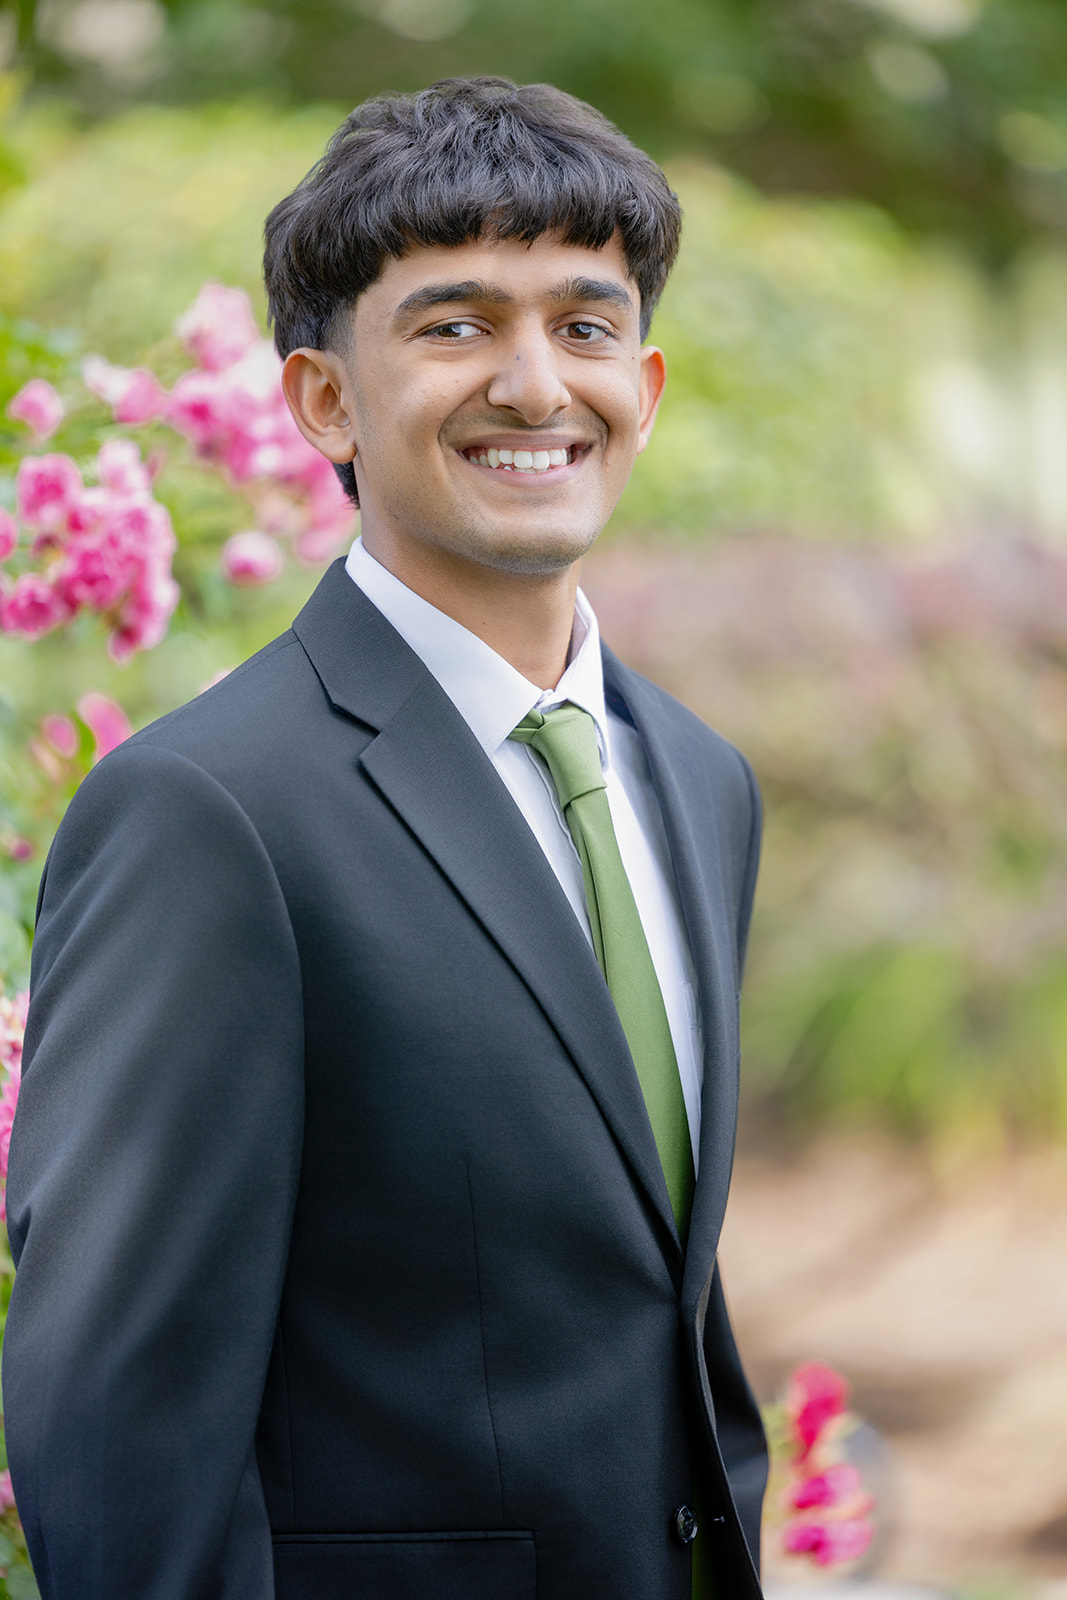
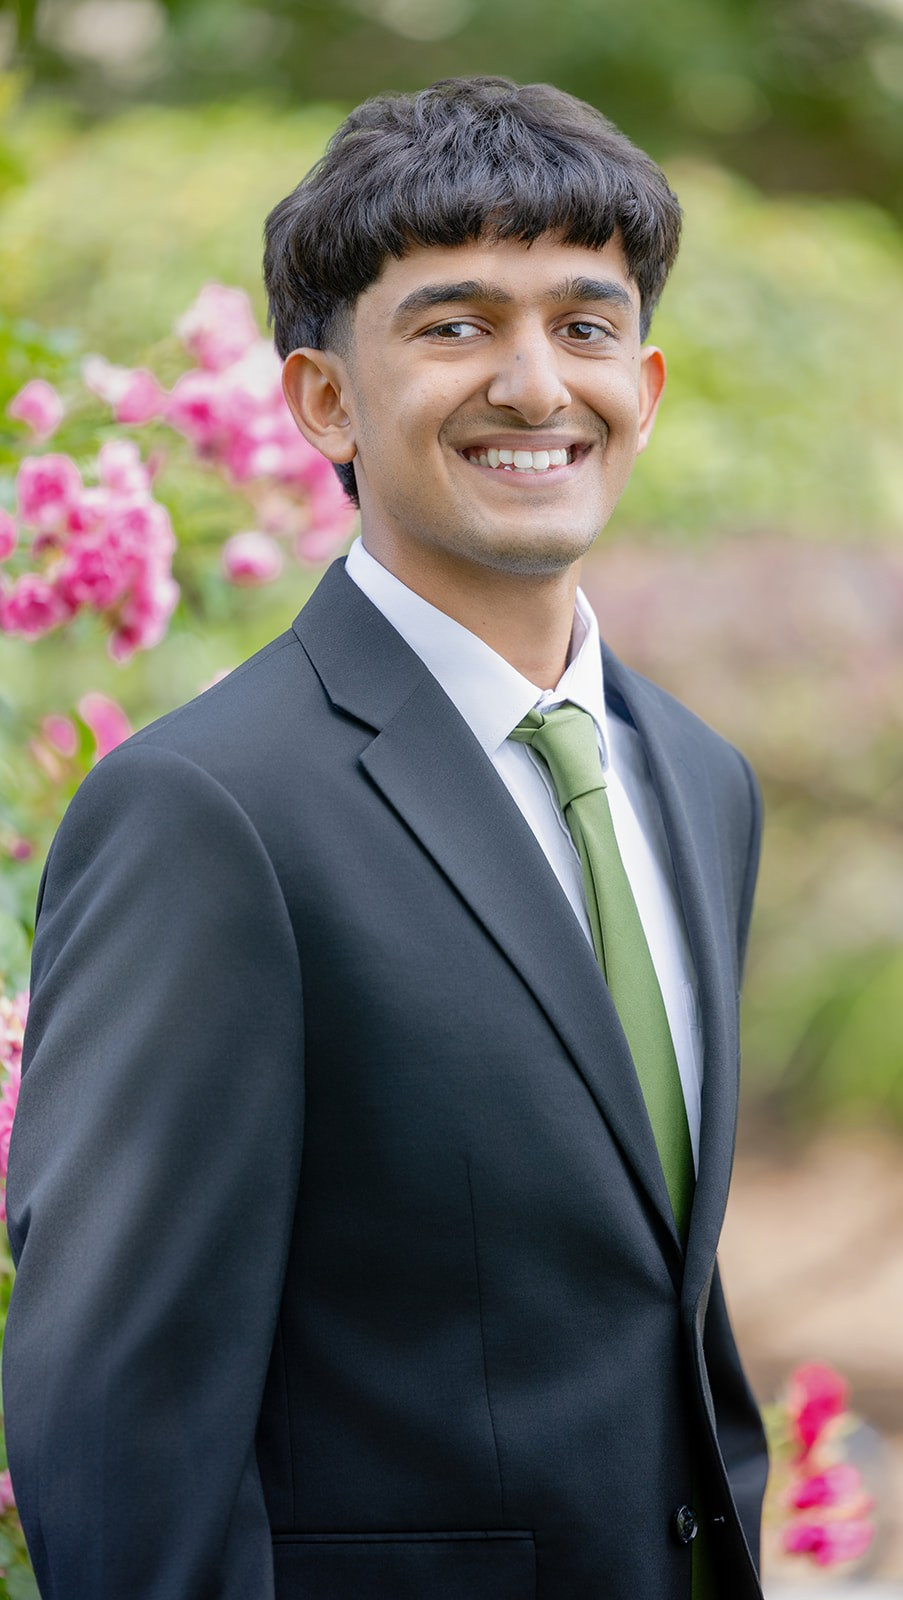
changessss

diff --git a/styles.css b/styles.css
@@ -37,7 +37,7 @@ nav { min-height: 96px; display: flex; align-items: center; gap: 32px; border-bo
 .intro-copy > p:not(.eyebrow) { max-width: 515px; color: var(--muted); margin-bottom: 24px; font-size: 17px; }
 .intro-copy .text-link { display: inline-block; }
 .portrait { aspect-ratio: 4 / 5; overflow: hidden; background: var(--surface); border-radius: 16px; }
-.portrait img { width: 100%; height: 100%; object-fit: cover; object-position: 47% 25%; }
+.portrait img { width: 100%; height: 100%; object-fit: cover; object-position: center top; transform: scale(1.4); transform-origin: 53% top; }
 .eyebrow, .visual-label, .chips, .project-impact h4, .protocol, .system-node small { font-family: "Consolas", "Courier New", monospace; }
 .eyebrow { margin: 0 0 20px; color: var(--accent); text-transform: uppercase; letter-spacing: 1.6px; font-size: 11px; line-height: 1.7; }
 h1, h2, h3, p { margin-top: 0; }
@@ -91,7 +91,10 @@ h1 { font-family: Georgia, "Times New Roman", serif; font-size: clamp(54px, 6.5v
 .metal { background: #52685d; }
 .oxide { background: #afc3a0; color: #243d2f; padding-top: 4px; padding-bottom: 4px; }
 .silicon { background: #9b6245; padding-bottom: 22px; }
-.about { display: grid; grid-template-columns: 1fr 1fr; gap: 70px; border-top: 1px solid var(--line); margin-top: 72px; padding: 48px 0; }
+.about { display: grid; grid-template-columns: minmax(0, 1fr) minmax(0, 1fr); align-items: center; gap: 28px 70px; border-top: 1px solid var(--line); margin-top: 72px; padding: 48px 0; }
+.about > h2 { grid-column: 1 / -1; }
+.about-photo { aspect-ratio: 4 / 3; overflow: hidden; border-radius: 16px; background: var(--surface); }
+.about-photo img { width: 100%; height: 100%; object-fit: cover; object-position: 50% 65%; }
 .about h2, .contact h2 { font: 400 32px/1.2 Georgia, "Times New Roman", serif; letter-spacing: -.7px; margin: 0; }
 .about-copy p { font-size: 14px; color: var(--muted); }
 .toolkit strong { display: block; color: var(--ink); font-size: 12px; margin-bottom: 5px; }
@@ -112,7 +115,7 @@ footer a { text-decoration: none; }
   .board-visual { padding: 22px; }
   .project-list { gap: 20px; }
   .diagram-visual { padding: 20px 16px; }
-  .about { gap: 35px; }
+  .about { gap: 28px 35px; }
   .contact > a { font-size: 15px; }
 }
 @media (max-width: 640px) {

diff --git a/index.html b/index.html
@@ -24,7 +24,7 @@
           <p>I’m an electrical engineering student working on circuit boards, autonomous vehicle electronics, and semiconductor devices.</p>
           <a class="text-link" href="#projects">Selected work <span aria-hidden="true">↓</span></a>
         </div>
-        <div class="portrait"><img src="images/IMG_0150.JPG" alt="Neeraj Chandekar" width="1067" height="1600" fetchpriority="high"></div>
+        <div class="portrait"><img src="images/IMG_0150.JPG" alt="Neeraj Chandekar" width="903" height="1600" fetchpriority="high"></div>
       </header>
       <section id="projects" aria-labelledby="work-title">
         <div class="section-heading"><h2 id="work-title">Selected work</h2></div>
@@ -93,7 +93,8 @@
         </div>
       </section>
       <section id="about" class="about" aria-labelledby="about-title">
-        <div><h2 id="about-title">About</h2></div>
+        <h2 id="about-title">About me</h2>
+        <div class="about-photo"><img src="images/IMG_6834.jpg" alt="Neeraj Chandekar standing in front of green hills and tea fields" width="4284" height="5712" loading="lazy"></div>
         <div class="about-copy"><p>I’m a first-year electrical engineering student at Cal Poly San Luis Obispo (B.S. expected May 2030). Before college, I founded and captained an FTC robotics team for three years and taught coding to kids.</p><p class="toolkit"><strong>My toolkit</strong> Altium Designer, LTspice, Fusion 360 (certified), Python, Arduino C++, Java, and bench instruments.</p><a class="text-link" href="https://linkedin.com/in/neeraj-chandekar-82a1b1238" target="_blank" rel="noopener">More on LinkedIn <span aria-hidden="true">↗</span></a></div>
       </section>
       <section class="contact" aria-labelledby="contact-title"><h2 id="contact-title">Contact</h2><a href="mailto:nchandek@calpoly.edu">nchandek@calpoly.edu <span aria-hidden="true">↗</span></a></section>
